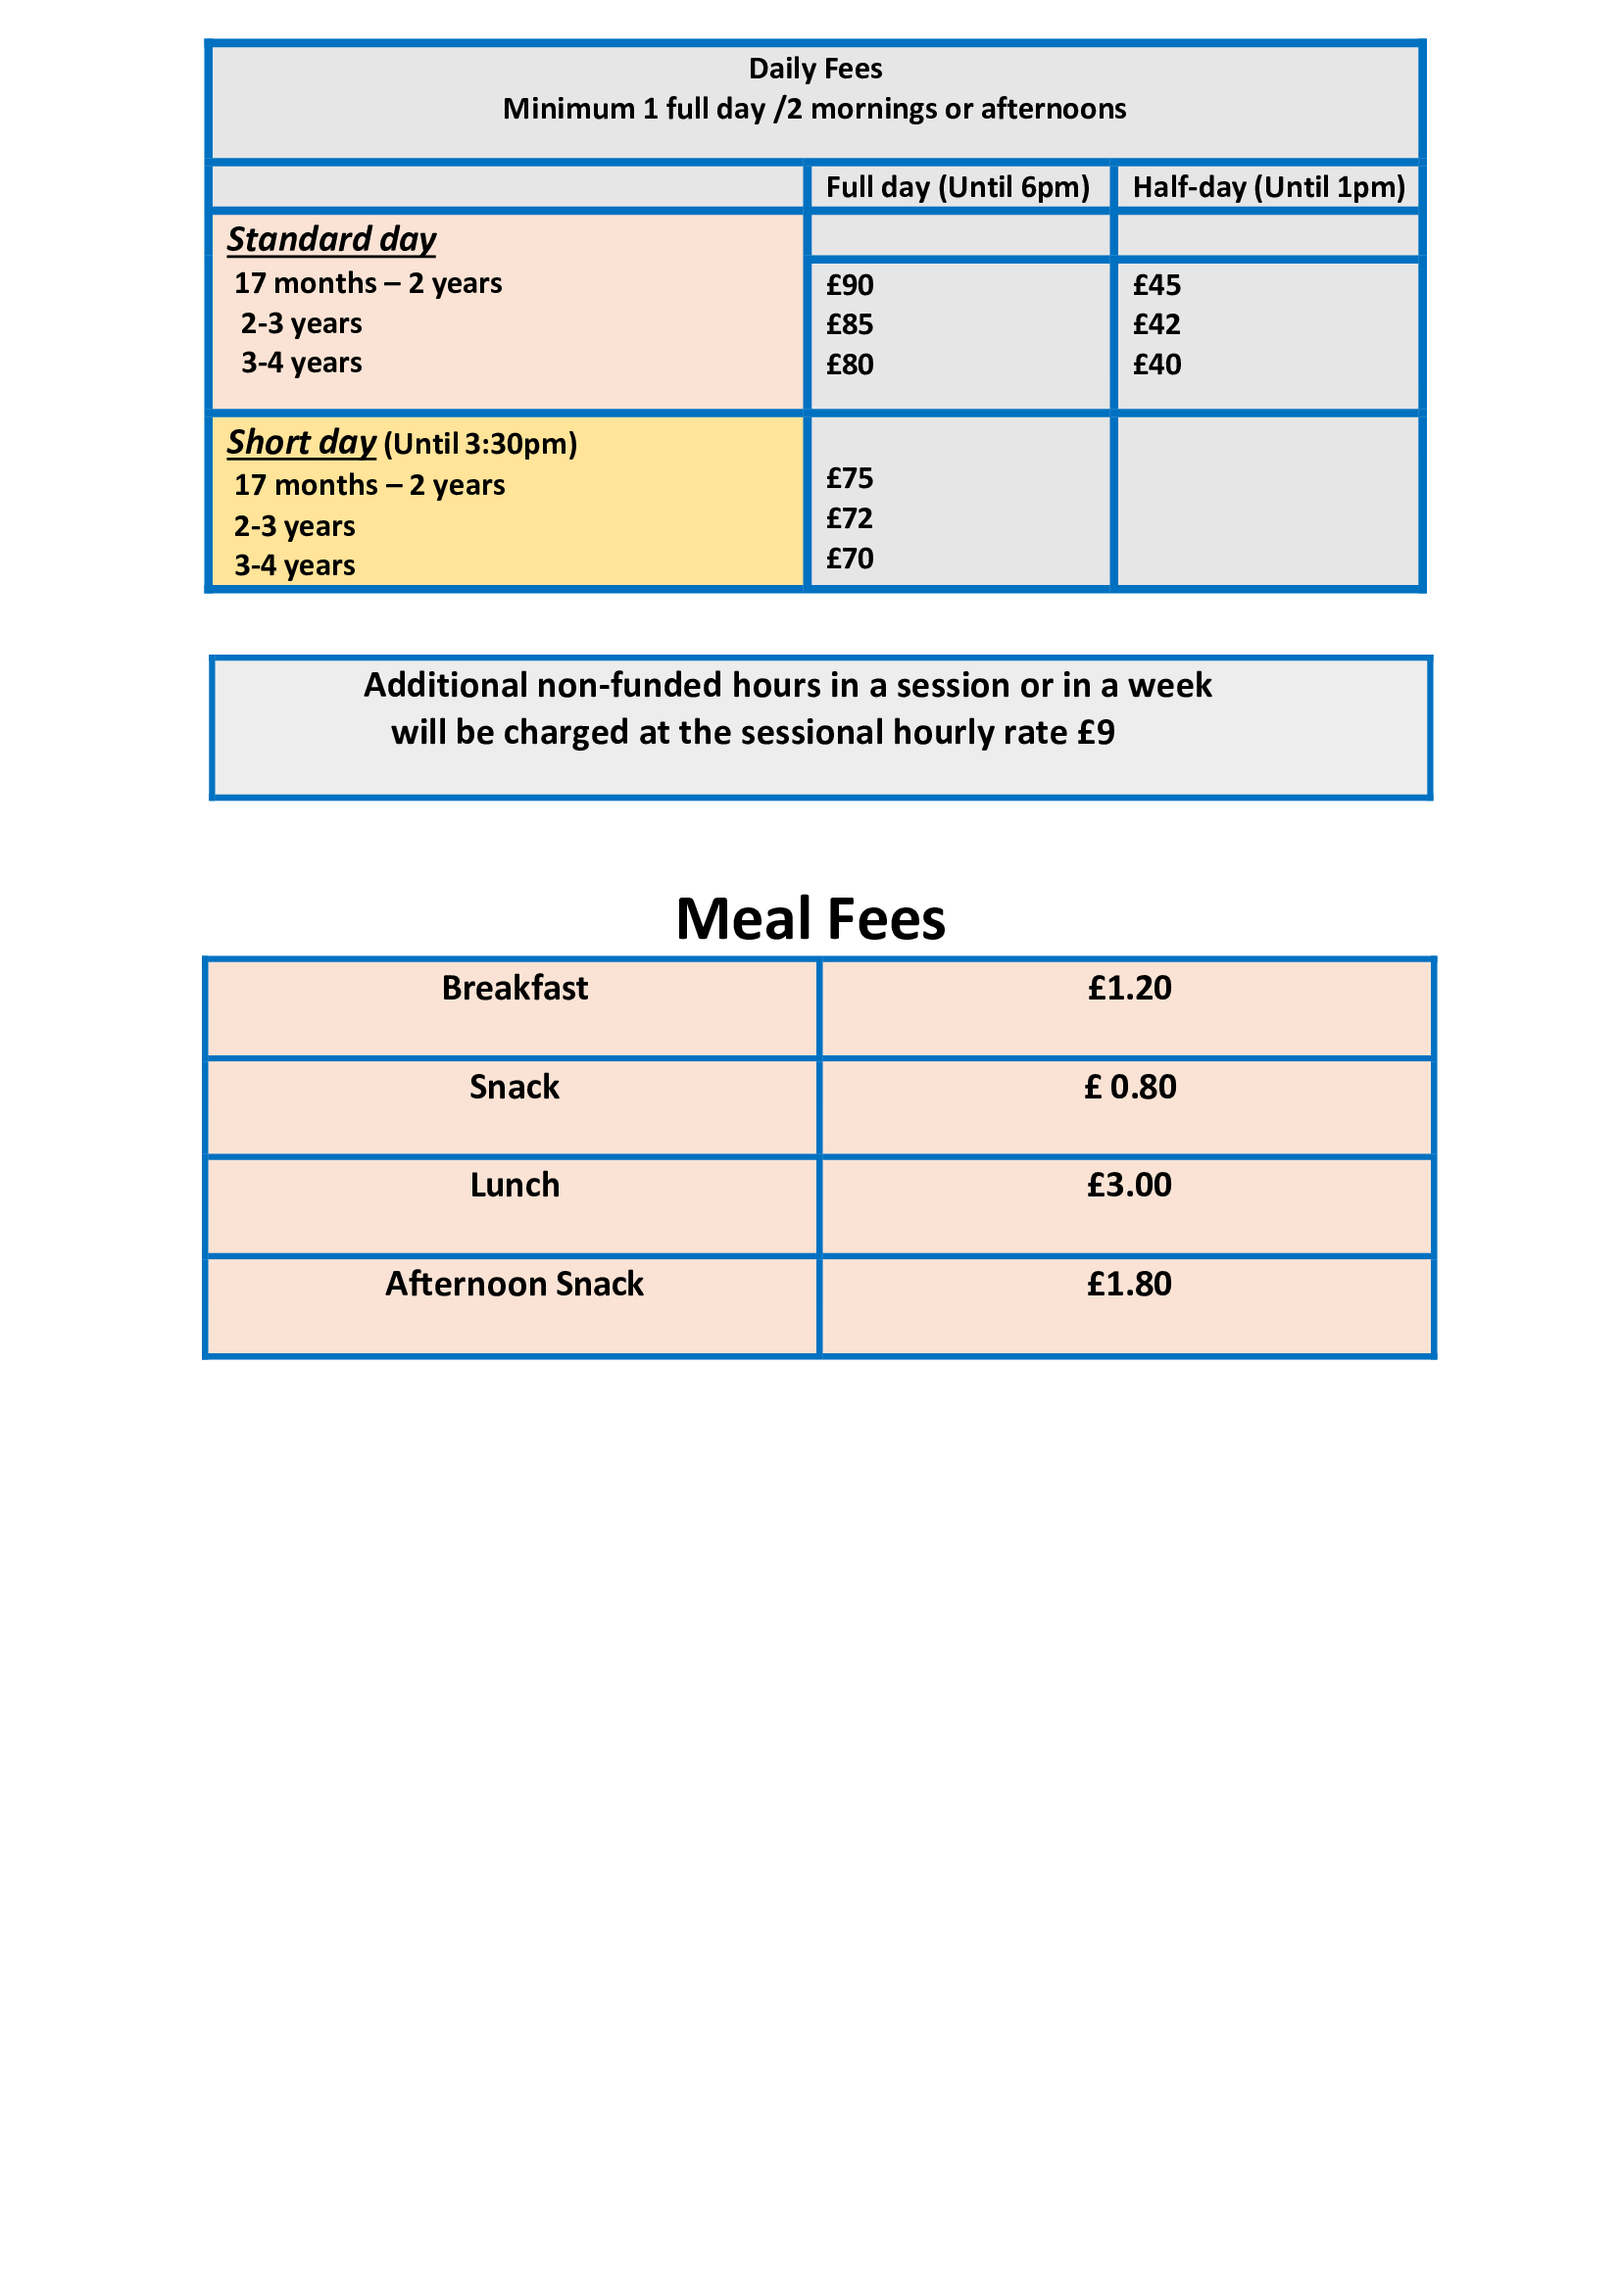
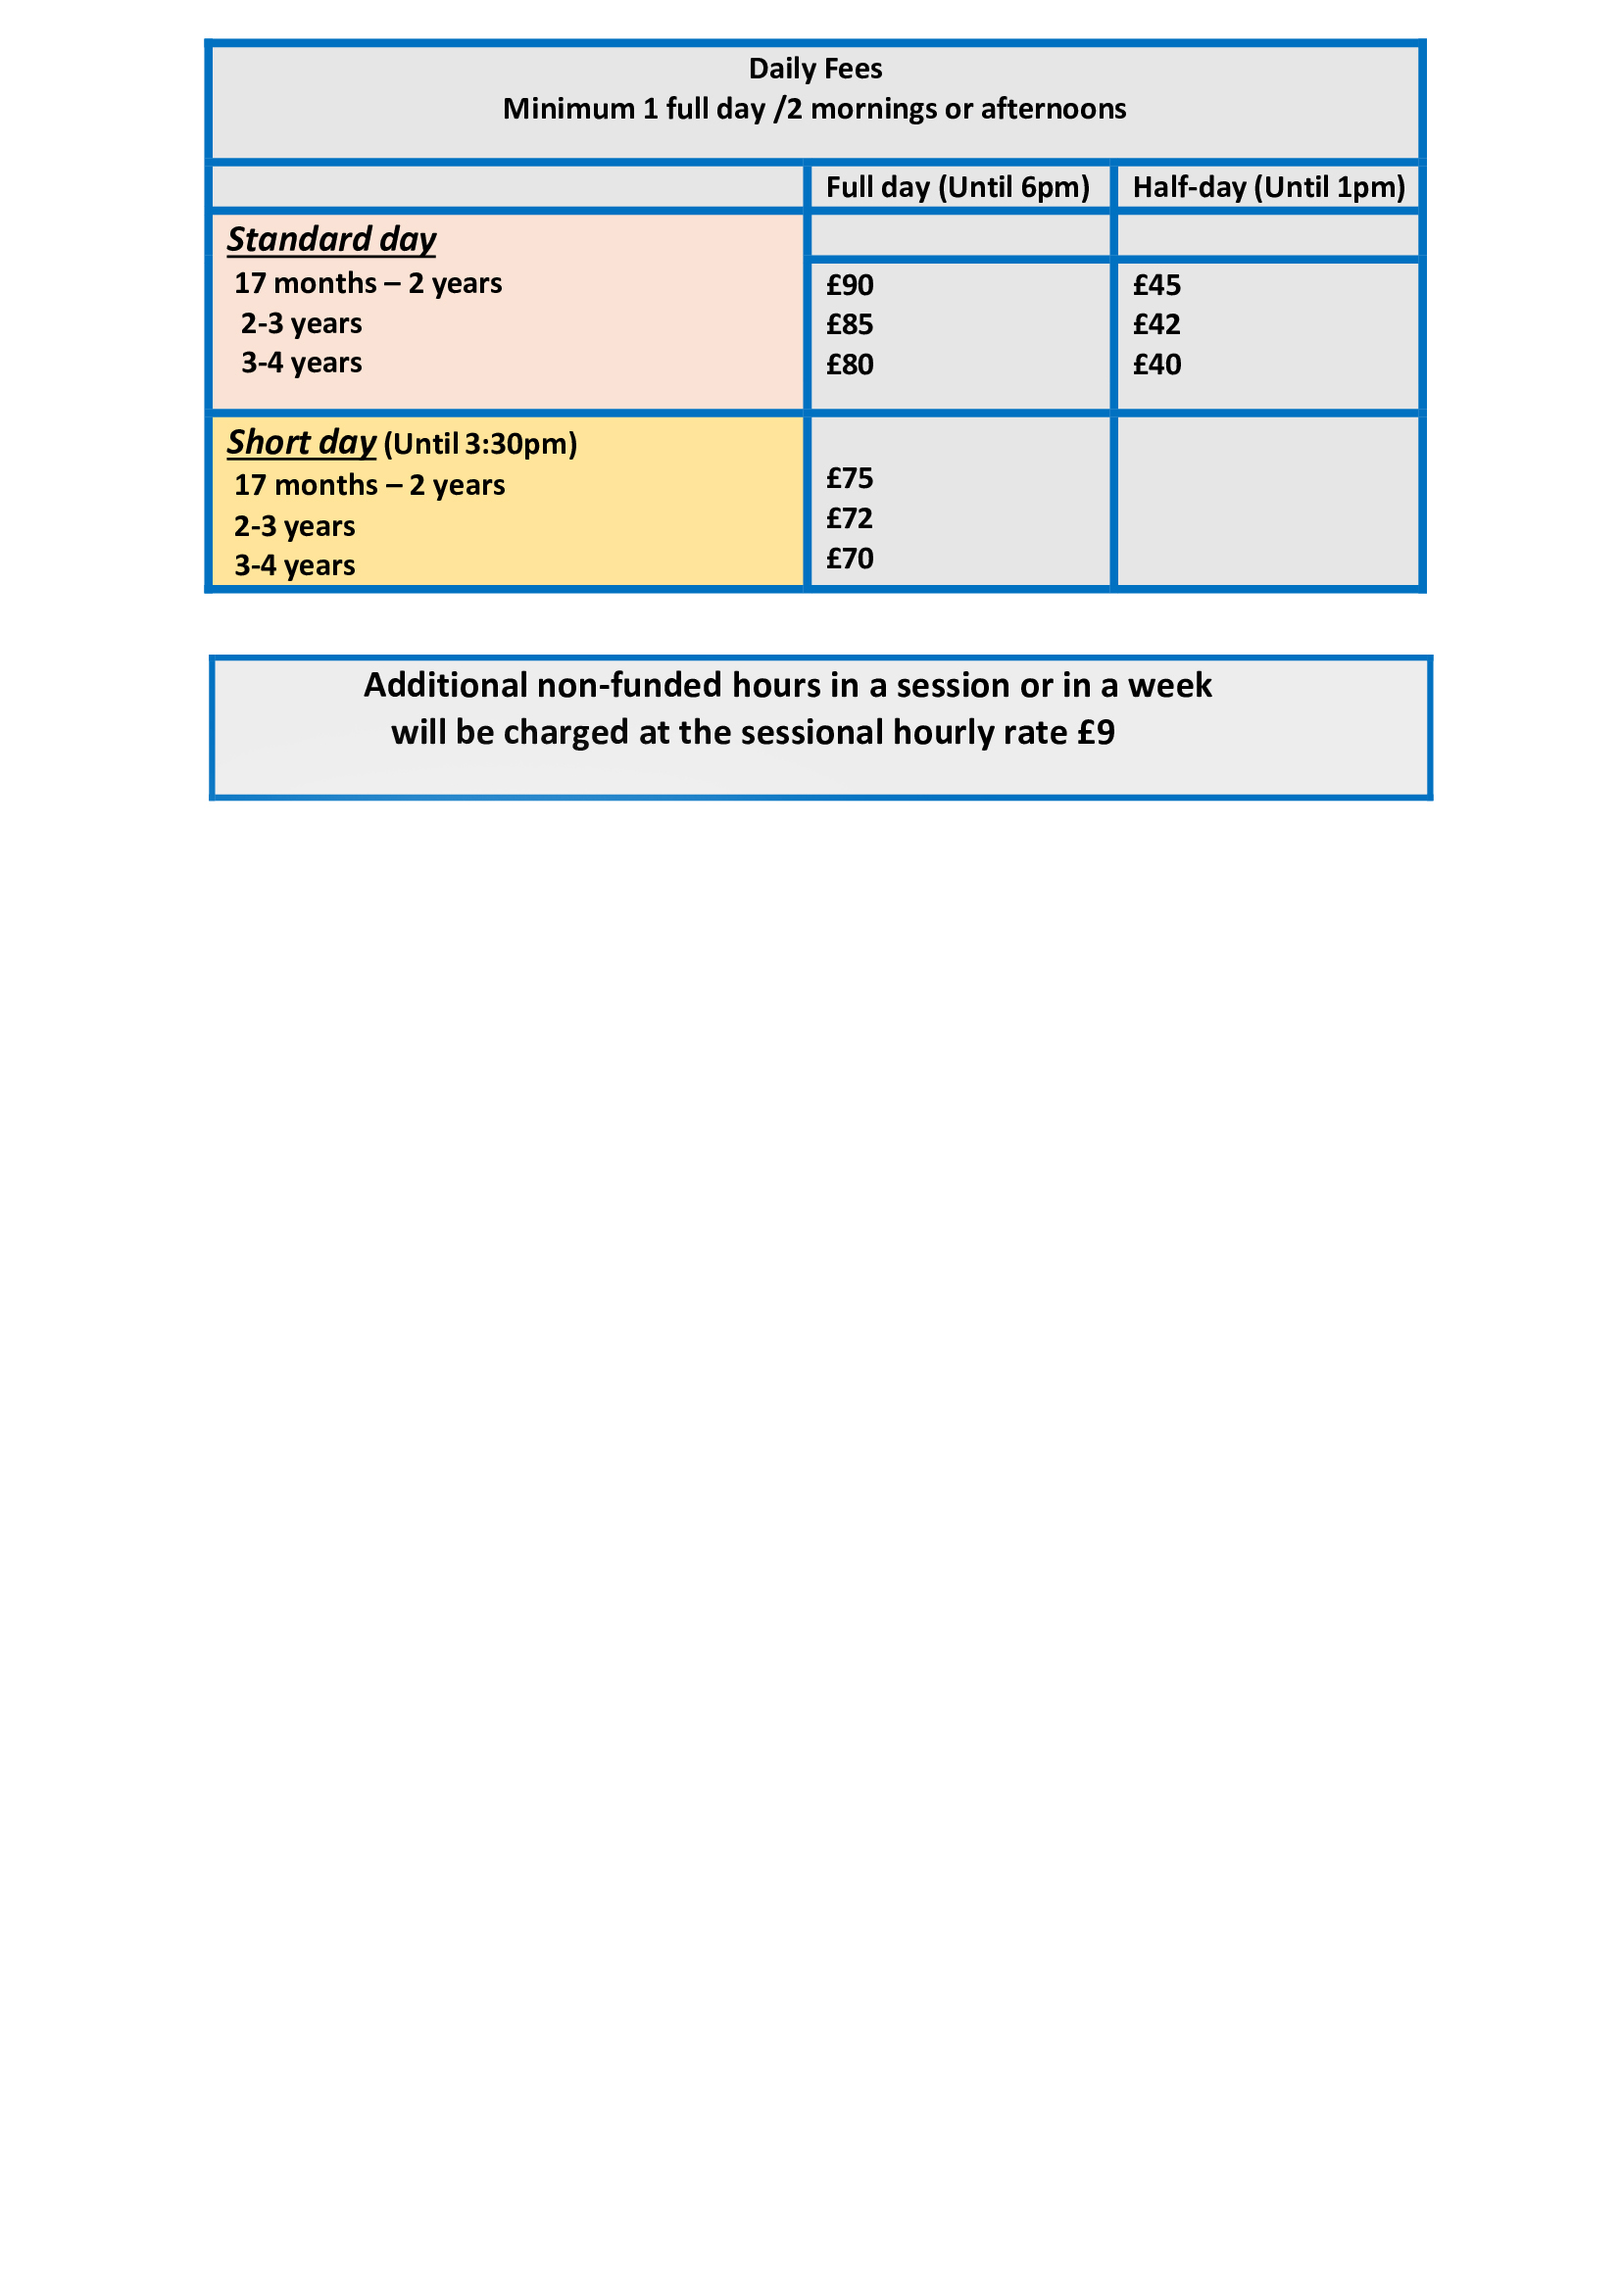
66

Changed region(s): [[0.1233, 0.3745, 0.8942, 0.593]]

diff --git a/photo_galler.html b/photo_galler.html
@@ -508,7 +508,117 @@ Copyright &copy;<script>document.write(new Date().getFullYear());</script> All r
 	</div>
 </div>
 
+<div class="row pbars_accordions_container">
+	<!-- левое изображение --><div class="col-lg-6">
+		<div class="elements_progress_bars">
+		<img src="images/53.jpg" alt="" class="gim">
+		</div>
+	</div>
 
+	<!-- правое --><div class="col-lg-6">
+		<div class="elements_accordions">
+		<img src="images/54.jpg" alt="" class="gim">
+		</div>
+	</div>
+</div>
+
+<div class="row pbars_accordions_container">
+	<!-- левое изображение --><div class="col-lg-6">
+		<div class="elements_progress_bars">
+		<img src="images/55.jpg" alt="" class="gim">
+		</div>
+	</div>
+
+	<!-- правое --><div class="col-lg-6">
+		<div class="elements_accordions">
+		<img src="images/56.jpg" alt="" class="gim">
+		</div>
+	</div>
+</div>
+
+<div class="row pbars_accordions_container">
+	<!-- левое изображение --><div class="col-lg-6">
+		<div class="elements_progress_bars">
+		<img src="images/57.jpg" alt="" class="gim">
+		</div>
+	</div>
+
+	<!-- правое --><div class="col-lg-6">
+		<div class="elements_accordions">
+		<img src="images/58.jpg" alt="" class="gim">
+		</div>
+	</div>
+</div>
+
+<div class="row pbars_accordions_container">
+	<!-- левое изображение --><div class="col-lg-6">
+		<div class="elements_progress_bars">
+		<img src="images/59.jpg" alt="" class="gim">
+		</div>
+	</div>
+
+	<!-- правое --><div class="col-lg-6">
+		<div class="elements_accordions">
+		<img src="images/56.jpg" alt="" class="gim">
+		</div>
+	</div>
+</div>
+
+<div class="row pbars_accordions_container">
+	<!-- левое изображение --><div class="col-lg-6">
+		<div class="elements_progress_bars">
+		<img src="images/61.jpg" alt="" class="gim">
+		</div>
+	</div>
+
+	<!-- правое --><div class="col-lg-6">
+		<div class="elements_accordions">
+		<img src="images/62.jpg" alt="" class="gim">
+		</div>
+	</div>
+</div>
+
+<div class="row pbars_accordions_container">
+	<!-- левое изображение --><div class="col-lg-6">
+		<div class="elements_progress_bars">
+		<img src="images/63.jpg" alt="" class="gim">
+		</div>
+	</div>
+
+	<!-- правое --><div class="col-lg-6">
+		<div class="elements_accordions">
+		<img src="images/64.jpg" alt="" class="gim">
+		</div>
+	</div>
+</div>
+
+<div class="row pbars_accordions_container">
+	<!-- левое изображение --><div class="col-lg-6">
+		<div class="elements_progress_bars">
+		<img src="images/65.jpg" alt="" class="gim">
+		</div>
+	</div>
+
+	<!-- правое --><div class="col-lg-6">
+		<div class="elements_accordions">
+		<img src="images/66.jpg" alt="" class="gim">
+		</div>
+	</div>
+</div>
+
+<div class="row pbars_accordions_container">
+	<!-- левое изображение --><div class="col-lg-6">
+		<div class="elements_progress_bars">
+		<img src="images/67.jpg" alt="" class="gim">
+		</div>
+	</div>
+
+	<!-- правое --><div class="col-lg-6">
+		<div class="elements_accordions">
+		<img src="images/68.jpg" alt="" class="gim">
+		</div>
+	</div>
+</div>
 
 			</div>
 		</div>
